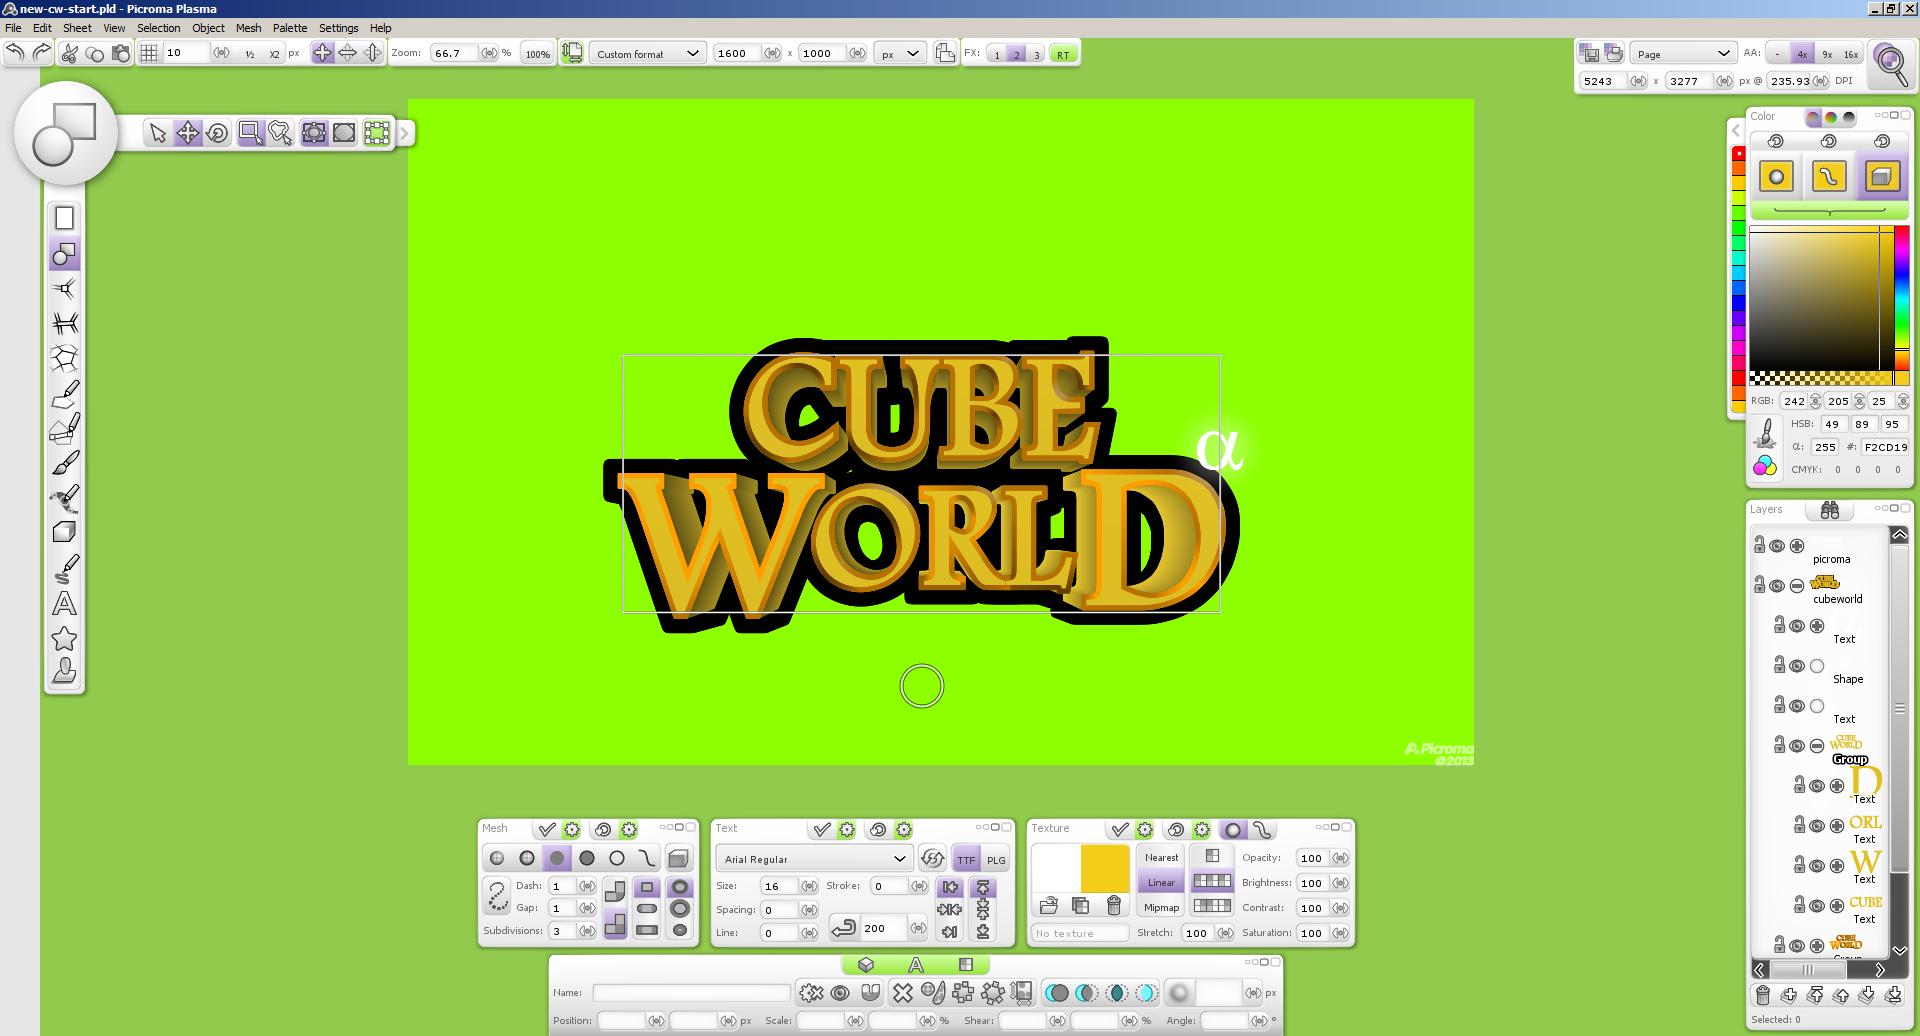
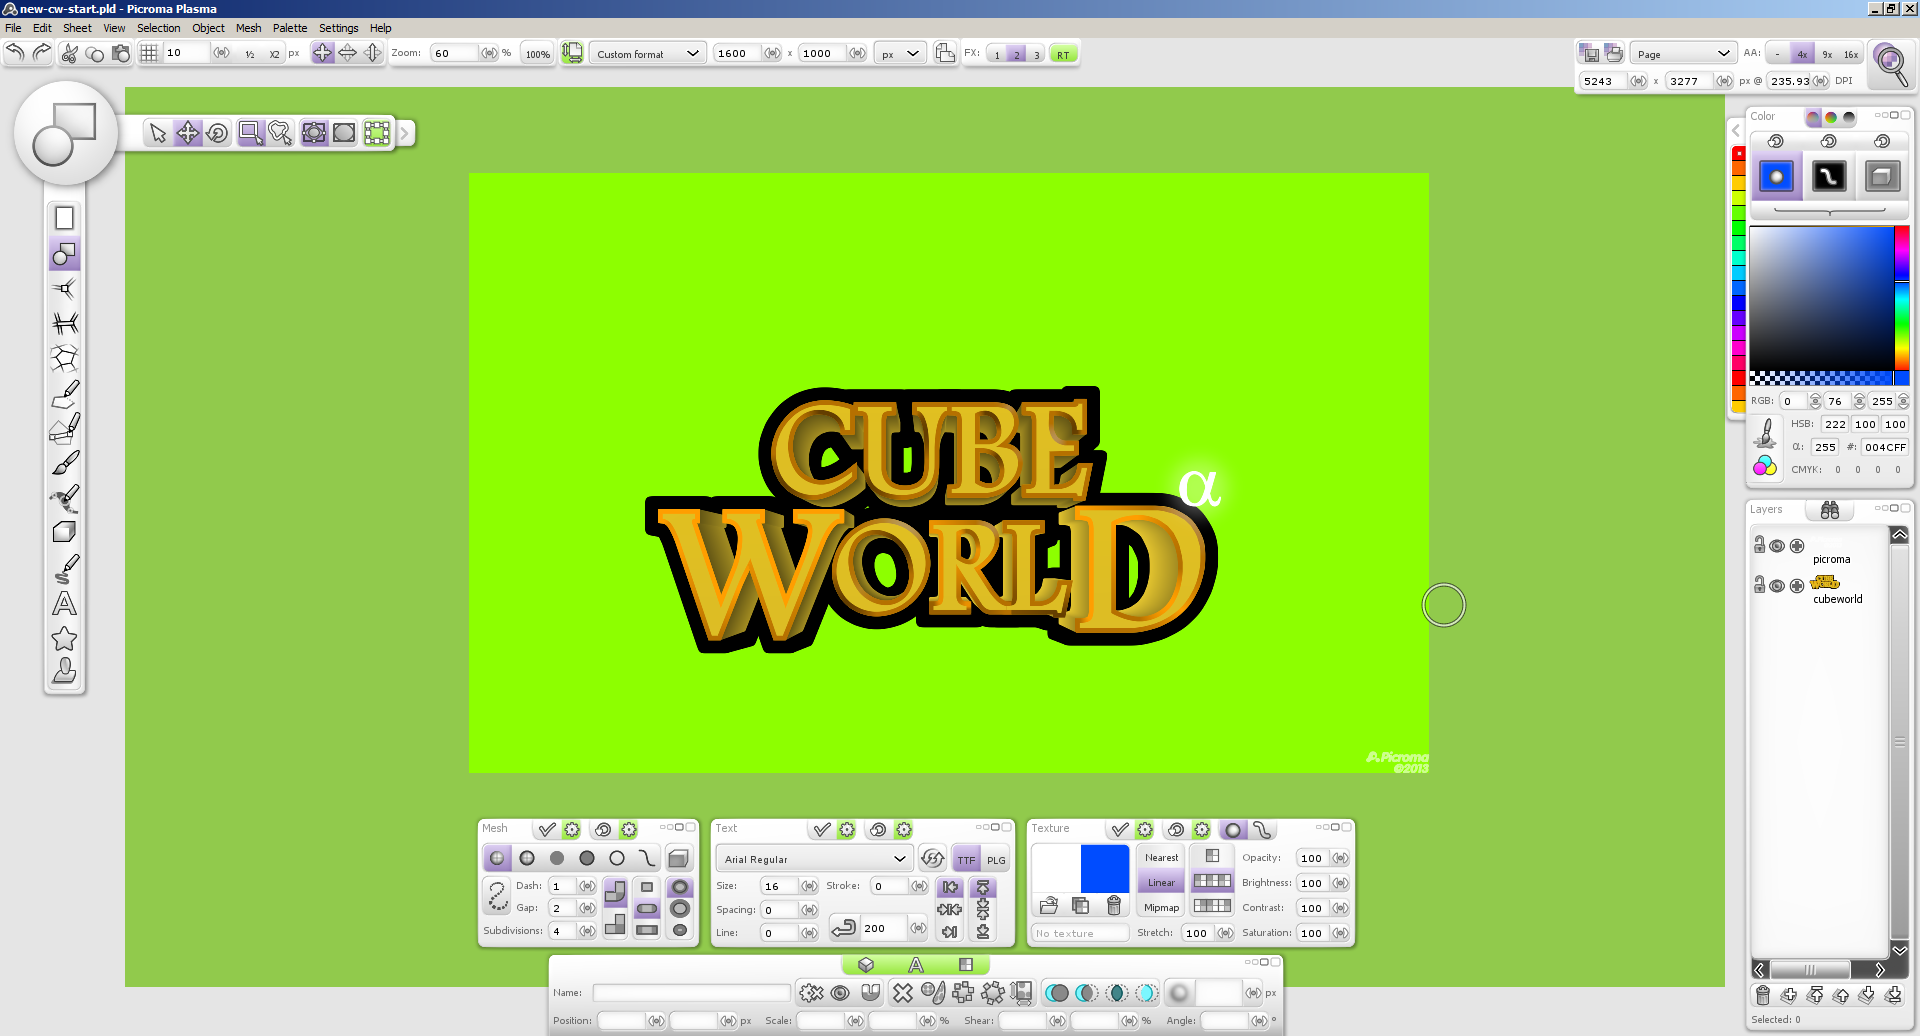
update

diff --git a/README.md b/README.md
@@ -298,7 +298,7 @@ While fixing crashing issues, I noticed that if a PLX file that crashes Plasma w
 
 I'm not sure how sheets are supposed to work in Plasma, but they seemed to have been rectangles around 1280x720 pixels, with a drop shadow behind them, upon which artwork would exist while being edited. For now, I made them slightly larger rectangles to account for modern monitors. I'm not sure if they perfectly replicate the original functionality, but they seem perfectly usable for now. I will revisit them if I need to.
 
-The most desirable solution would be to get the original sheet PLX. Although unlikely, since Plasma saves the encrypted file to `C:\ProgramData\Picroma\Plasma\settings` upon an activation attempt, it could be possible to recover it from an old installation and attempt to decrypt it. A zero byte file will be saved if authentication fails, but the encrypted data may still exist on the hard disk since the data was not strictly overwritten, so recovery may still be possible. In order to ensure that any remaining copies from 2011 do not accidentally destroy the data by authenticating with my server, I am limiting valid serials to `0000000000000000` and `PlasmaXGraphics`. It is possible to use arbitrary serials by modifying `C:\ProgramData\Picroma\Plasma\config`. This section will be revised if an encrypted copy of the file is recovered.
+The most desirable solution would be to get the original sheet PLX. Although unlikely, since Plasma saves the encrypted file to `C:\ProgramData\Picroma\Plasma\settings` upon an activation attempt, it could be possible to recover it from an old installation and attempt to decrypt it. A zero byte file will be saved if authentication fails, but the encrypted data may still exist on the hard disk since the data was not strictly overwritten, so recovery may still be possible. In order to ensure that any remaining copies from 2011 do not accidentally destroy the data by authenticating with my server, I am limiting valid serials to `0000000000000000` and `PlasmaXGraphics`. The latter is used by Picroma to save and obfuscate their PLX files, so it is convenient to be able to use that serial. It is possible to use non-numeric serials by modifying `C:\ProgramData\Picroma\Plasma\config`. This section will be revised if an encrypted copy of the file is recovered.
 
 I'm no artist, so to show it off, here's recoloring Cube World's logo.
 
